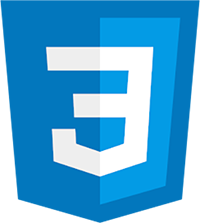
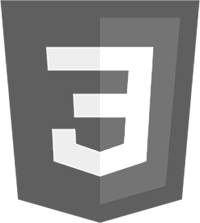
mj/responsive top competences et diplomes et avancement sur barre nav

diff --git a/index.html b/index.html
@@ -49,19 +49,43 @@
     <!--COMPETENCES-->
     <div class="conteneur_competences">
         <p class="titre_competences">MES COMPETENCES</p>
-        <div class="competences">
-            <img class="logo html" src="assets/pictures/html.png">
-            <img class="logo css" src="assets/pictures/css.png">
-            <img class="logo bootstrap" src="assets/pictures/bootstrap.png">
-            <img class="logo php" src="assets/pictures/php.png">
-            <img class="logo js" src="assets/pictures/js.png">
-            <img class="logo node" src="assets/pictures/node.png">
-            <img class="logo jquery" src="assets/pictures/jquery.png">
-            <img class="logo joomla" src="assets/pictures/joomla.png">
-            <img class="logo wordpress" src="assets/pictures/wordpress.png">
-            <img class="logo linux" src="assets/pictures/linux.png">
-            <img class="logo iis" src="assets/pictures/iis.png">
-            <img class="logo git" src="assets/pictures/git.png">
+        <div class="ensemble_competences">
+            <div class="competences">
+                <img class="logo" src="assets/pictures/html2.png" onmouseover="this.src='assets/pictures/html.png'" onmouseout="this.src='assets/pictures/html2.png'">
+            </div>
+            <div class="competences">
+                <img class="logo css" src="assets/pictures/css2.png" onmouseover="this.src='assets/pictures/css.png'" onmouseout="this.src='assets/pictures/css2.png'">
+            </div>
+            <div class="competences">
+                <img class="logo bootstrap" src="assets/pictures/bootstrap2.png" onmouseover="this.src='assets/pictures/bootstrap.png'" onmouseout="this.src='assets/pictures/bootstrap2.png'">
+            </div>
+            <div class="competences">
+                <img class="logo php" src="assets/pictures/php2.png" onmouseover="this.src='assets/pictures/php.png'" onmouseout="this.src='assets/pictures/php2.png'">
+            </div>
+            <div class="competences">
+                <img class="logo js" src="assets/pictures/js2.png" onmouseover="this.src='assets/pictures/js.png'" onmouseout="this.src='assets/pictures/js2.png'">
+            </div>
+            <div class="competences">
+                <img class="logo node" src="assets/pictures/node2.png" onmouseover="this.src='assets/pictures/node.png'" onmouseout="this.src='assets/pictures/node2.png'">
+            </div>
+            <div class="competences">
+                <img class="logo jquery" src="assets/pictures/jquery2.png" onmouseover="this.src='assets/pictures/jquery.png'" onmouseout="this.src='assets/pictures/jquery2.png'">
+            </div>
+            <div class="competences">
+                <img class="logo joomla" src="assets/pictures/joomla2.png" onmouseover="this.src='assets/pictures/joomla.png'" onmouseout="this.src='assets/pictures/joomla2.png'">
+            </div>
+            <div class="competences">
+                <img class="logo wordpress" src="assets/pictures/wordpress2.png" onmouseover="this.src='assets/pictures/wordpress.png'" onmouseout="this.src='assets/pictures/wordpress2.png'">
+            </div>
+            <div class="competences">
+                <img class="logo linux" src="assets/pictures/linux2.png" onmouseover="this.src='assets/pictures/linux.png'" onmouseout="this.src='assets/pictures/linux2.png'">
+            </div>
+            <div class="competences">
+                <img class="logo iis" src="assets/pictures/iis2.png" onmouseover="this.src='assets/pictures/iis.png'" onmouseout="this.src='assets/pictures/iis2.png'">
+            </div>
+            <div class="competences">
+                <img class="logo git" src="assets/pictures/git2.png" onmouseover="this.src='assets/pictures/git.png'" onmouseout="this.src='assets/pictures/git2.png'">
+            </div>
         </div>
     </div>
     <!--DIPLOMES-->
@@ -69,7 +93,7 @@
         <p class="titre_diplomes">DIPLÔMES</p>
         <p class="sous-titre_diplomes">Rôles et postes occupés</p>
         <div class="diplomes">
-            <div class="adrar">
+            <div class="adrar diplome">
                 <p class="date_diplome">Octobre 2019- Juillet 2020</p>
                 <p class="nom_diplome">TITRE PROFESSIONNEL DEVELOPPEUR WEB</p>
                 <p class="contenu_diplome">
@@ -78,7 +102,7 @@
                 </p>
                 <p></p>
             </div>
-            <div class="bts">
+            <div class="bts diplome">
                 <p class="date_diplome">Septembre 2017- Juillet 2019</p>
                 <p class="nom_diplome">BTS PROFESSIONS IMMOBILIERES</p>
                 <p class="contenu_diplome">
@@ -86,7 +110,7 @@
                     Étude des fonctions financières commerciales ansi qu'administratives de l'immobilier.
                 </p>
             </div>
-            <div class="bac">
+            <div class="bac diplome">
                 <p class="date_diplome">Septembre 2010- Juillet 2013</p>
                 <p class="nom_diplome">BAC PRO CGEA EVC</p>
                 <p class="contenu_diplome">

diff --git a/assets/style.css b/assets/style.css
@@ -38,7 +38,12 @@ body{
 }
 /*NAVBAR*/
 .navbar{
+    background-color: var(--light);
+    position: relative;
+    z-index: 3;
     margin-bottom: 2%;
+    position: sticky;
+    top: 0;
 }
 .titre_navbar{
     font-size: 25px;
@@ -47,8 +52,9 @@ body{
 .elem_menu{
     text-decoration: none;
     color: black;
-    padding-left: 1%;
+    padding: 0 1% 2% 0;
 }
+
 /*TOP*/
 .header{
     height: 800px;
@@ -121,14 +127,31 @@ body{
 }
 /*COMPETENCES*/
 .conteneur_competences{
-    background-color: var(--medium)
+    background-color: var(--medium);
 }
 .titre_competences{
     font-size: 35px;
     text-align: center;
 }
+.ensemble_competences{
+    display: grid;
+    grid-template-columns: 2fr 2fr 2fr 2fr;
+    margin: 0% 2% 0 4%;
+}
+
+.competences{
+    background-color: var(--light);
+    text-align: center;
+    width: 400px;
+    height: 400px;
+    margin-bottom: 10%;
+}
+.logo{
+    margin-top: 80px;
+}
 /*DIPLOMES*/
 .conteneur_diplomes{
+
 }
 .titre_diplomes{
     font-size: 35px;
@@ -152,7 +175,14 @@ body{
 }
 .diplomes{
     display: grid;
-    grid-template-columns: 3fr 3fr 2fr;
+    grid-template-columns: 2fr 3fr 2fr;
+}
+.diplome{
+    background-color: var(--medium);
+    height: 200px;
+    width: 700px;
+    padding-left: 200px;
+    margin-bottom: 8%
 }
 .adrar{
     grid-column: 2/3;

diff --git a/assets/responsive.css b/assets/responsive.css
@@ -6,7 +6,7 @@
         padding-bottom: 35%;
     }
 }
-@media screen and (max-width: 375px)
+@media screen and (max-width: 414px)
 {
     .header{
         height: 400px;
@@ -31,4 +31,54 @@
         padding: 0 10px 20px 10px;
     }
 
+}
+/*COMPETENCES*/
+@media screen and (max-width: 1440px)
+{
+    .competences{
+        width: 250px;
+        height: 350px;
+        margin: 0 0% 10% 8%;
+    }
+}
+@media screen and (max-width: 1024px)
+{
+    .logo{
+        width: 60%;
+    }
+    .competences{
+        width: 200px;
+        height: 300px;
+        margin: 0 0% 15% 8%;
+    }
+}
+@media screen and (max-width: 834px)
+{
+    .logo{
+        width: 50%;
+    }
+    .competences{
+        width: 150px;
+        height: 250px;
+        margin: 0 0% 18% 8%;
+    }
+}
+@media screen and (max-width: 414px)
+{
+    .ensemble_competences {
+        grid-template-columns: 2fr 2fr;
+}
+/*DIPLOMES*/
+@media screen and (max-width: 834px)
+{
+    .diplome{
+        background-color: var(--medium);
+        height: 250px;
+        width: 600px;
+        padding-left: 200px;
+        margin-bottom: 5%
+    }
+    .contenu_diplome{
+        text-align: justify;
+    }
 }
